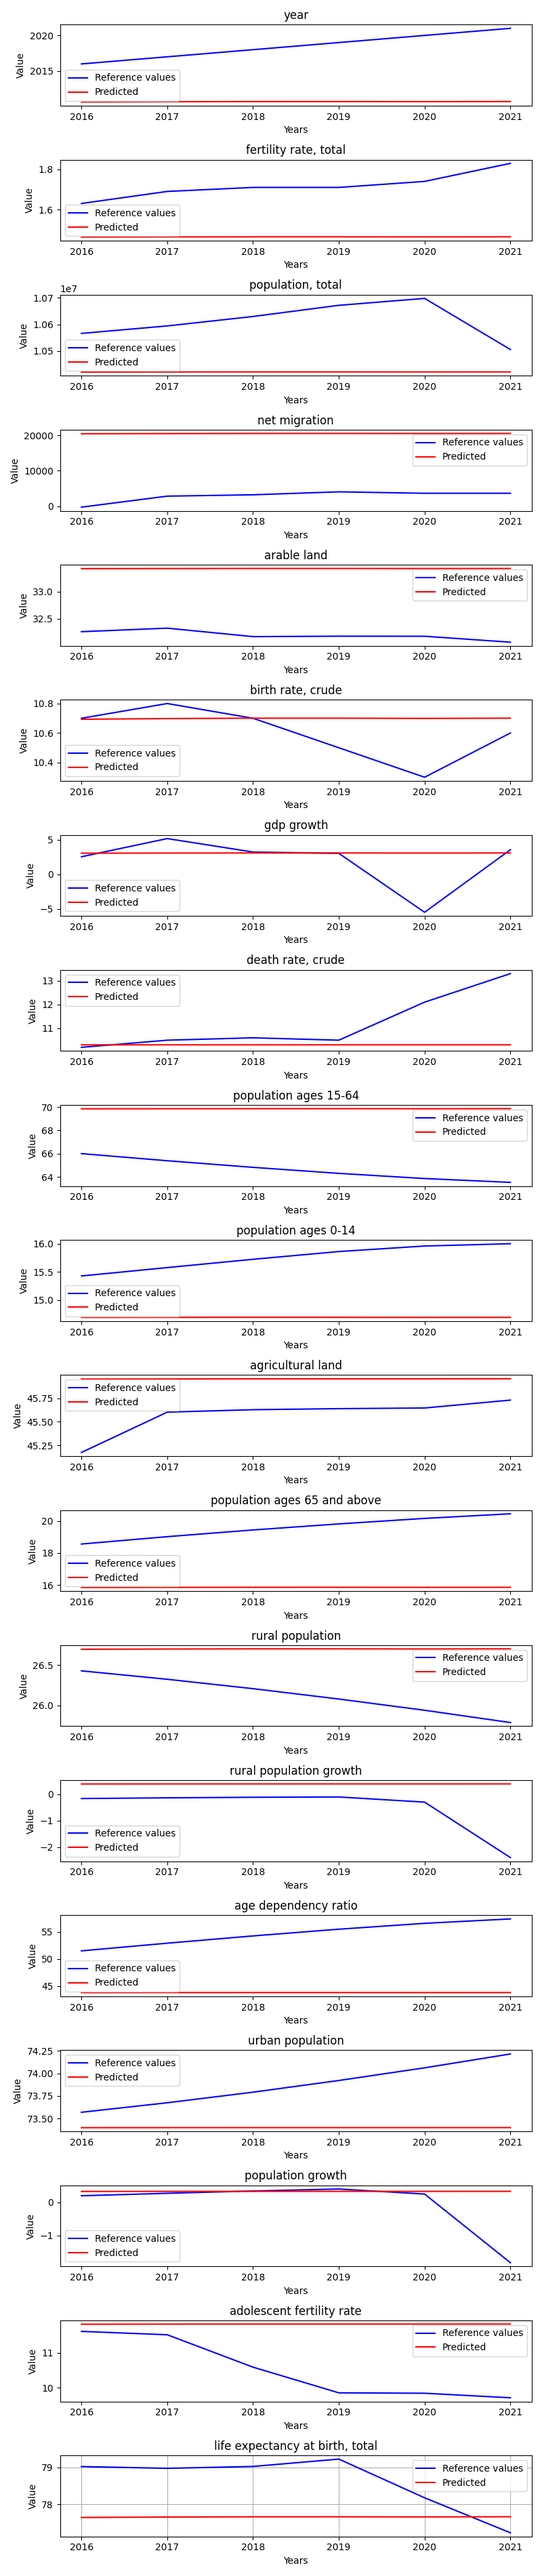
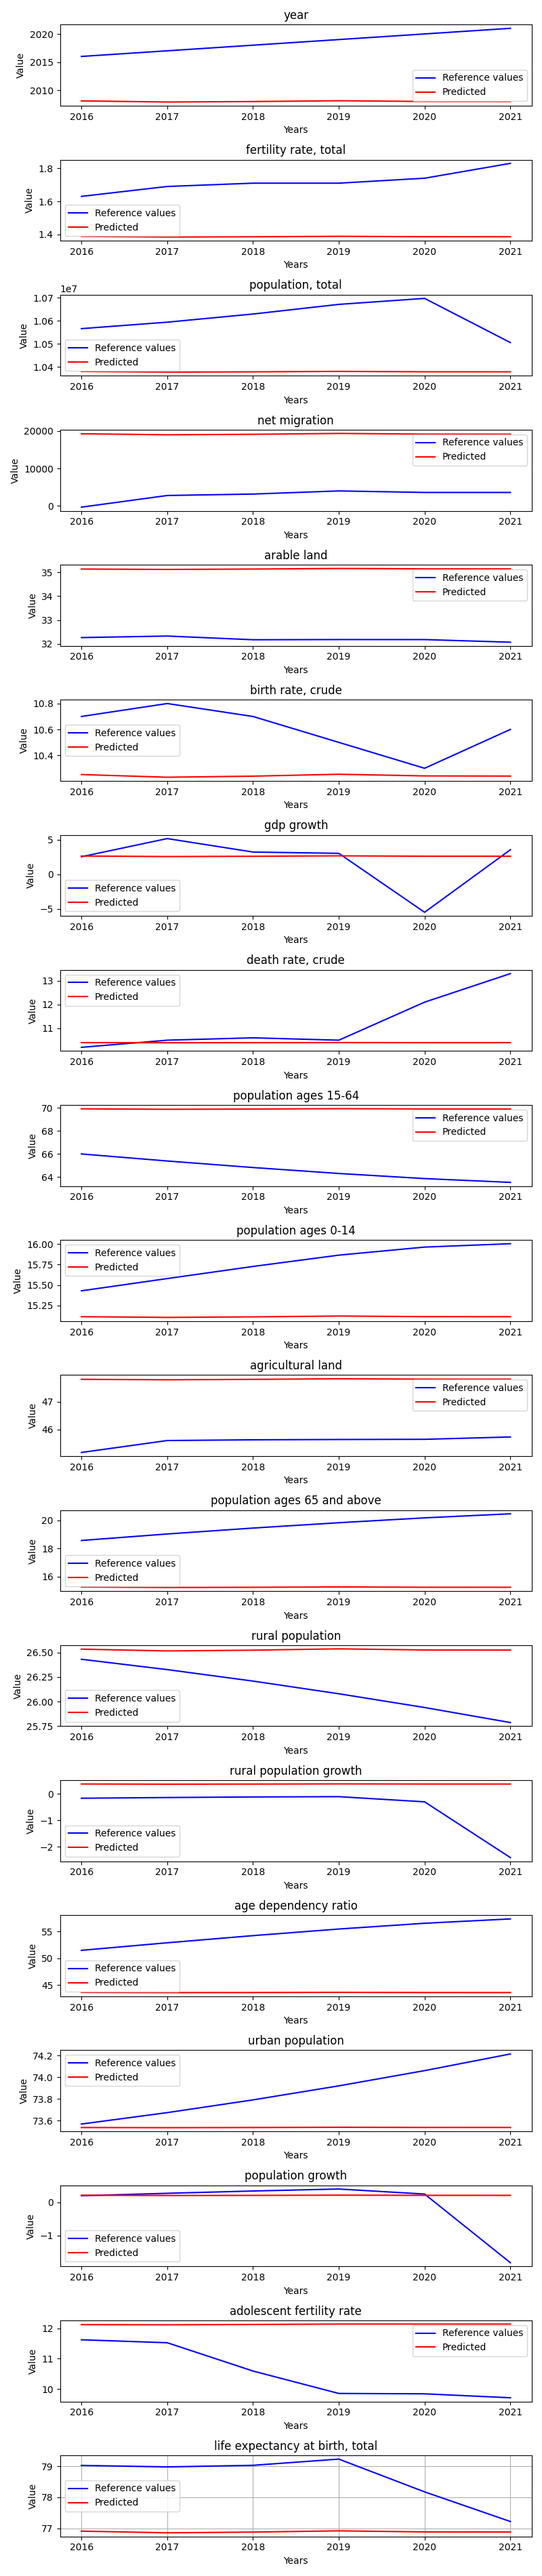
(fix): OptimalParamsExperiment README.md - model metric comparision

diff --git a/local_model_benchmark/experiments/model_experiments.py b/local_model_benchmark/experiments/model_experiments.py
@@ -6,6 +6,8 @@ import logging
 import torch
 from typing import List, Dict, Literal
 
+import copy
+
 
 from config import setup_logging, Config
 from local_model_benchmark.utils import (
@@ -43,20 +45,29 @@ class OptimalParamsExperiment(BaseExperiment):
     def adjust_hidden_size(
         self, base_parameters: LSTMHyperparameters, hidden_size: int
     ) -> LSTMHyperparameters:
-        base_parameters.hidden_size = hidden_size
-        return base_parameters
+
+        # Create a copy of original parameters
+        new_params = copy.deepcopy(base_parameters)
+        new_params.hidden_size = hidden_size
+        return new_params
 
     def adjust_sequence_len(
         self, base_parameters: LSTMHyperparameters, sequence_length: int
     ) -> LSTMHyperparameters:
-        base_parameters.sequence_length = sequence_length
-        return base_parameters
+
+        # Create a copy of original parameters
+        new_params = copy.deepcopy(base_parameters)
+        new_params.sequence_length = sequence_length
+        return new_params
 
     def adjust_num_layers(
         self, base_parameters: LSTMHyperparameters, num_layers: int
     ) -> LSTMHyperparameters:
-        base_parameters.num_layers = num_layers
-        return base_parameters
+
+        # Create a copy of original parameters
+        new_params = copy.deepcopy(base_parameters)
+        new_params.num_layers = num_layers
+        return new_params
 
     # Find optimal neuron number in layer number (hidden_size)
     def find_optimal_parameter(
@@ -266,15 +277,9 @@ class OptimalParamsExperiment(BaseExperiment):
         # Train and evaluate parametricaly adjusted model
         # Rewrite the parameters to optimal
         OPTIMAL_PAREMETRS: LSTMHyperparameters = BASE_HYPERPARAMS
-        self.adjust_hidden_size(
-            OPTIMAL_PAREMETRS, found_optimal_paremeters["hidden_size"]
-        )
-        self.adjust_sequence_len(
-            OPTIMAL_PAREMETRS, found_optimal_paremeters["sequence_length"]
-        )
-        self.adjust_num_layers(
-            OPTIMAL_PAREMETRS, found_optimal_paremeters["num_layers"]
-        )
+        OPTIMAL_PAREMETRS.hidden_size = found_optimal_paremeters["hidden_size"]
+        OPTIMAL_PAREMETRS.sequence_length = found_optimal_paremeters["sequence_length"]
+        OPTIMAL_PAREMETRS.num_layers = found_optimal_paremeters["num_layers"]
 
         # Preprocess data
         optimal_train_batches, optimal_target_batches, optimal_scaler = (
@@ -325,8 +330,23 @@ class OptimalParamsExperiment(BaseExperiment):
             print(f"Optimal {param_name} is: {value}")
 
         # Save the results
+        formatted_base_model_evaluation: str = pprint.pformat(
+            base_model_evaluation.to_readable_dict()
+        )
+        formatted_optimal_model_evaluation: str = pprint.pformat(
+            optimal_model_evaluation.to_readable_dict()
+        )
+        compare_models_by_metric: str = f"""
+Base model:
+{formatted_base_model_evaluation}
 
-        # Try to train model with optimal parameters
+Optimal model:
+{formatted_optimal_model_evaluation}
+"""
+
+        self.readme_add_section(
+            title="# Compare metric results", text=compare_models_by_metric
+        )
 
 
 # 2. Compare model with statistical methods (ARIMA, GM)

diff --git a/local_model_benchmark/experiment_results/OptimalParamsExperiment/README.md b/local_model_benchmark/experiment_results/OptimalParamsExperiment/README.md
@@ -3,43 +3,56 @@
 
 **Description:** The goal is to find the optimal parameters for the given LocalModel model.
 
-## Base model hyperparameters:
-```
-Input size:         19
-Batch size:         1
-
-Hidden size:        512
-Sequence length:    0.0001
-Layers:             6
-
-Learning rate:      0.0001
-Epochs:             10
-
-Bidirectional:      False
-
-```
 # Base model evaluation
-Displays the performance for every feature predicted of the `Base Model`.
-
-![Base model evaluation](./plots/base_model_eval.png)
-
-## Optimal model hyperparameters:
+Hyperparameters:
 ```
 Input size:         19
 Batch size:         1
 
-Hidden size:        512
-Sequence length:    0.0001
+Hidden size:        128
+Sequence length:    10
 Layers:             3
 
 Learning rate:      0.0001
 Epochs:             10
 
 Bidirectional:      False
-
 ```
+## Base model predicted vs reference values
+Displays the performance for every feature predicted of the `Base Model`.
+
+![Base model predicted vs reference values](./plots/base_model_eval.png)
+
 # Optimal model evaluation
+Hyperparameters:
+```
+Input size:         19
+Batch size:         1
+
+Hidden size:        512
+Sequence length:    4
+Layers:             3
+
+Learning rate:      0.0001
+Epochs:             10
+
+Bidirectional:      False
+```
+## Optimal model predicted vs reference values
 Displays the performance for every feature predicted of the `Optimal Model`.
 
-![Optimal model evaluation](./plots/optimal_model_eval.png)
+![Optimal model predicted vs reference values](./plots/optimal_model_eval.png)
 
+# Compare metric results
+
+Base model:
+{'mae': 12079.820915318696,
+ 'mse': 2604285059.360079,
+ 'r2': -33.558703393503315,
+ 'rmse': 12590.539022166504}
+
+Optimal model:
+{'mae': 13079.038928012296,
+ 'mse': 3067017069.3189445,
+ 'r2': -96.77961744184172,
+ 'rmse': 13542.745215822733}
